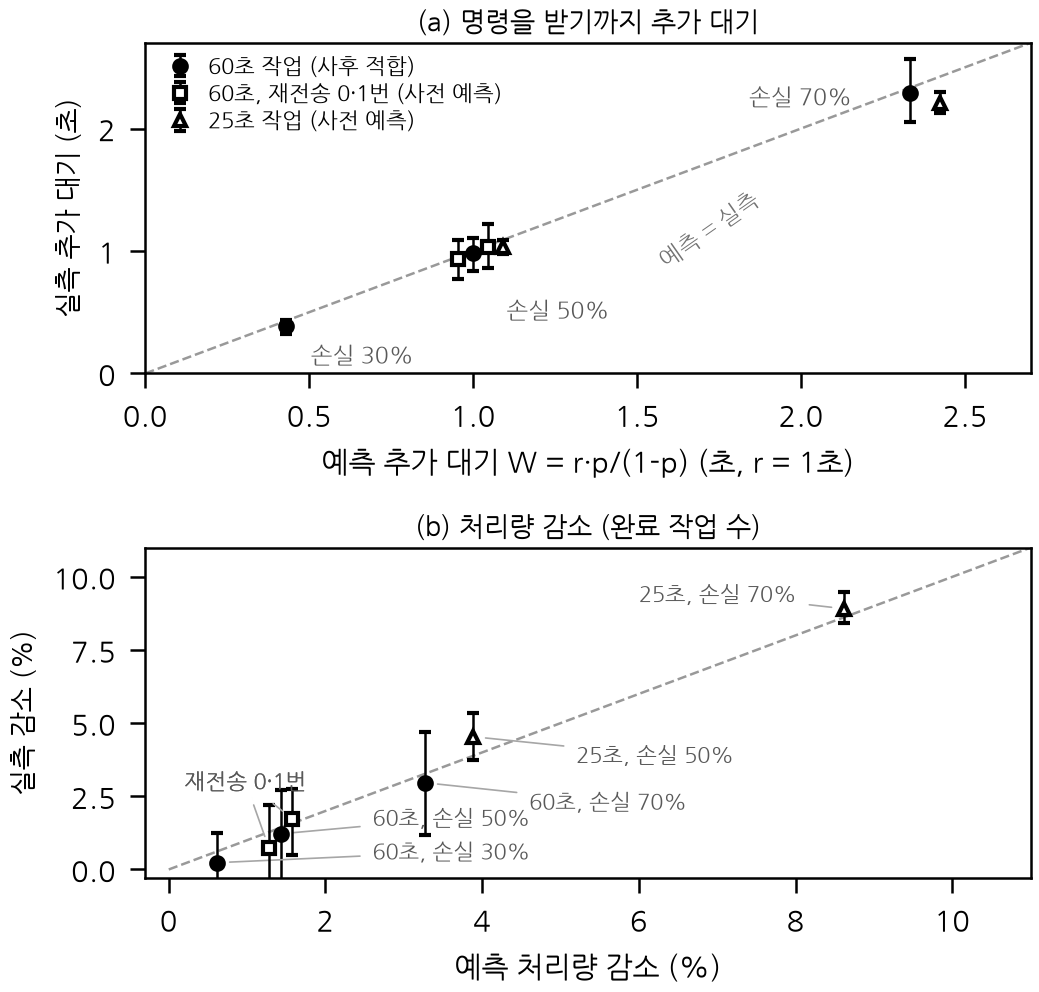
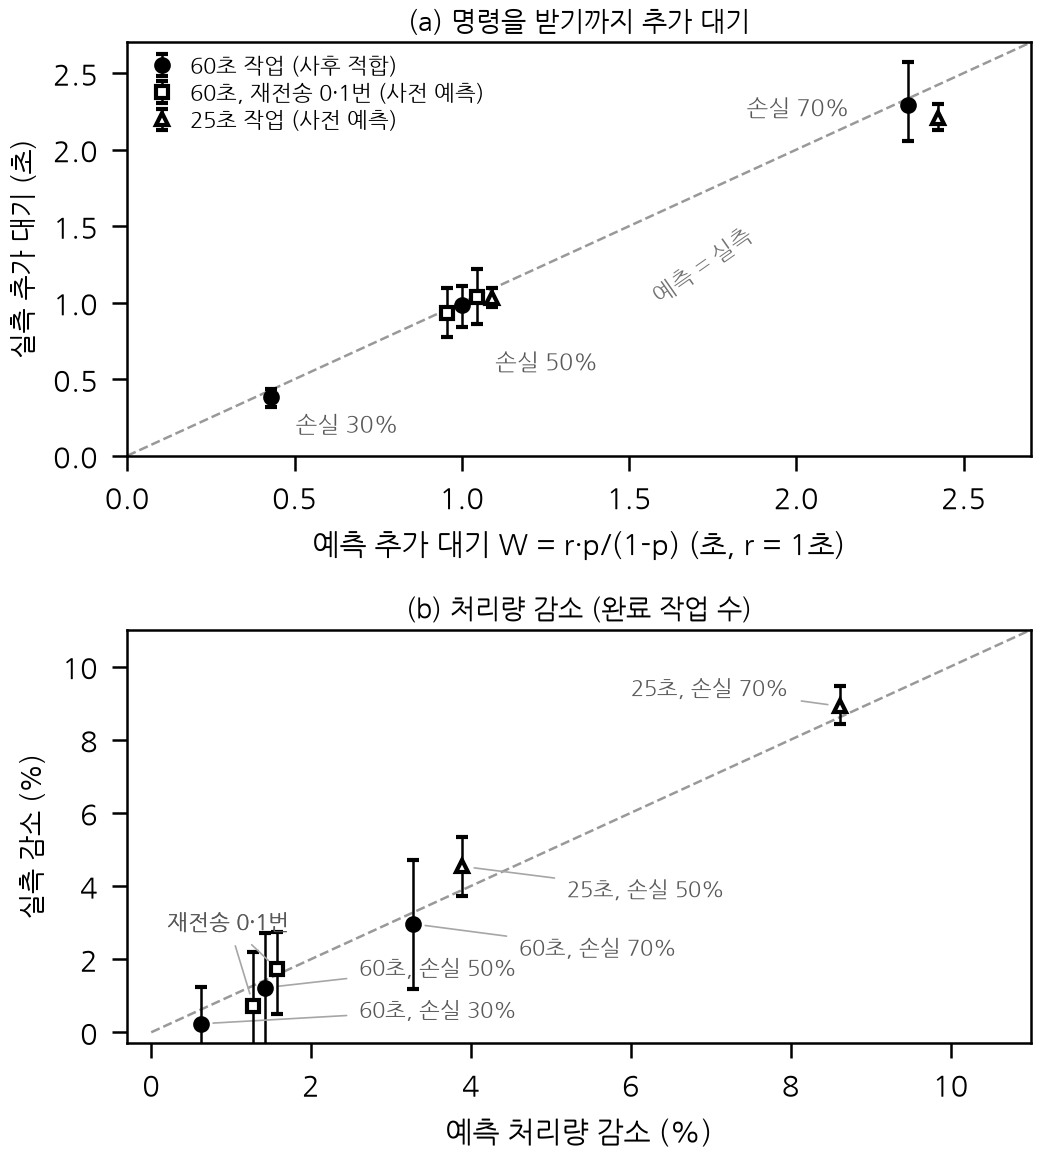
docs(research1): figB_compact 높이를 84에서 98 mm로 (패널이 너무 낮아 점 이름이 붐빔)

diff --git a/experiments/research1/central/figs.py b/experiments/research1/central/figs.py
@@ -280,12 +280,12 @@ b2.legend([h for h, _ in LEGEND_B], [n for _, n in LEGEND_B], loc='upper left', 
 fig.set_size_inches(88 * MM, 122 * MM)
 save(fig, 'figB_stacked', h_pad=1.4)
 
-# 한 단 압축 합본: (a) 위·(b) 아래, 확대 창 없이 84 mm. 두 장(72 mm씩)을 한 장으로 합쳐 한 단에서 약 60 mm를 줄인다.
+# 한 단 압축 합본: (a) 위·(b) 아래, 확대 창 없이 98 mm. 두 장(72 mm씩)을 한 장으로 합쳐 한 단에서 약 46 mm를 줄인다.
 # 손실 50%의 겹친 점은 본문에서 설명하므로 확대 창은 뺀다 (확대 창이 필요하면 figB_stacked)
 _old_label = dict(LABEL_THR)
 LABEL_THR.update({'central_loss30': ('60초, 손실 30%', (2.6, 0.6)), 'central_loss50': ('60초, 손실 50%', (2.6, 1.75))})
 LEGEND_B.clear()
-fig, (b1, b2) = plt.subplots(2, 1, figsize=(88 * MM, 84 * MM))
+fig, (b1, b2) = plt.subplots(2, 1, figsize=(88 * MM, 98 * MM))
 panel_wait(b1, legend=False)
 panel_thr(b2)
 b1.legend([h for h, _ in LEGEND_B], [n for _, n in LEGEND_B], frameon=False, fontsize=5.2, loc='upper left',

diff --git a/experiments/research1/central/README.md b/experiments/research1/central/README.md
@@ -23,7 +23,7 @@ python3 figs.py data figures     # 그림 A·B·C (NanumGothic 글꼴 필요, ma
 
 `_wide`는 두 단 폭(180 mm), 나머지는 한 단 폭(88 mm)이다. 그림 B의 한 단 판은 (a) `figB_wait`, (b) `figB_throughput` 두 장으로 나눈다.
 
-`figures/figB_compact`는 (a)·(b)를 확대 창 없이 한 단 폭 84 mm 한 장에 위아래로 합친 판이다. 두 장(72 mm씩)보다 한 단에서 약 60 mm, `figB_stacked`(122 mm)보다 약 38 mm 짧다. 3쪽 제한 때문에 원고(그림 2)에 쓴다. 손실 50%에서 예측이 같아 겹친 점은 본문에서 설명한다.
+`figures/figB_compact`는 (a)·(b)를 확대 창 없이 한 단 폭 98 mm 한 장에 위아래로 합친 판이다. 두 장(72 mm씩)보다 한 단에서 약 46 mm, `figB_stacked`(122 mm)보다 약 24 mm 짧다. 3쪽 제한 때문에 원고(그림 2)에 쓴다. 손실 50%에서 예측이 같아 겹친 점은 본문에서 설명한다.
 
 ## 결과 요약
 
